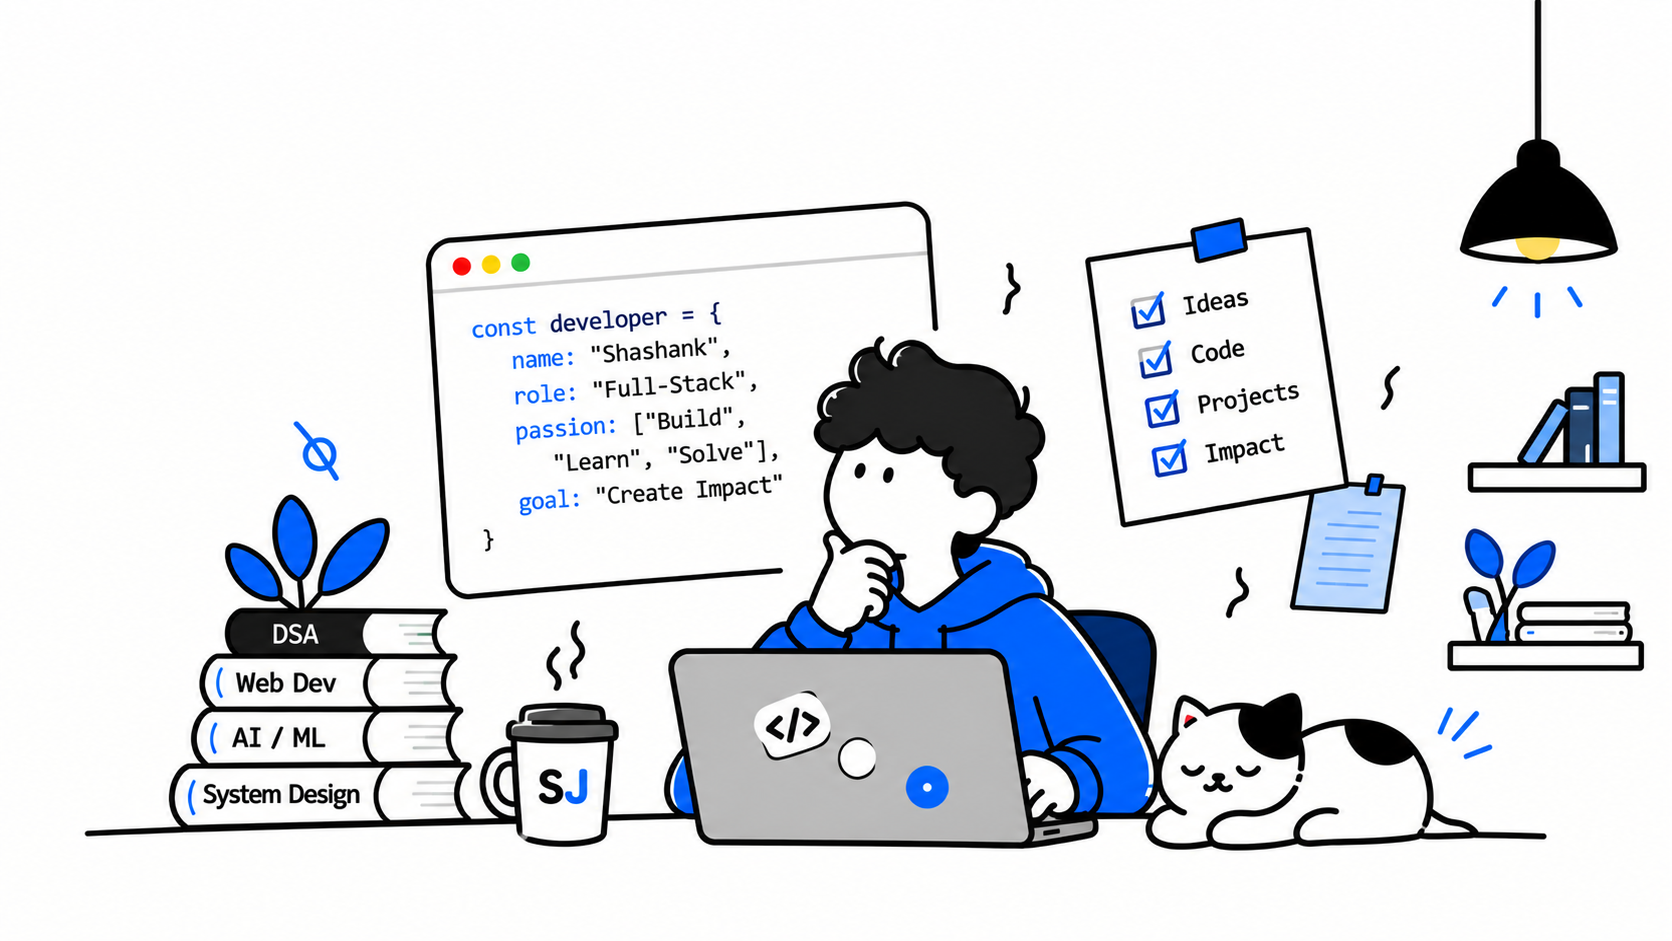
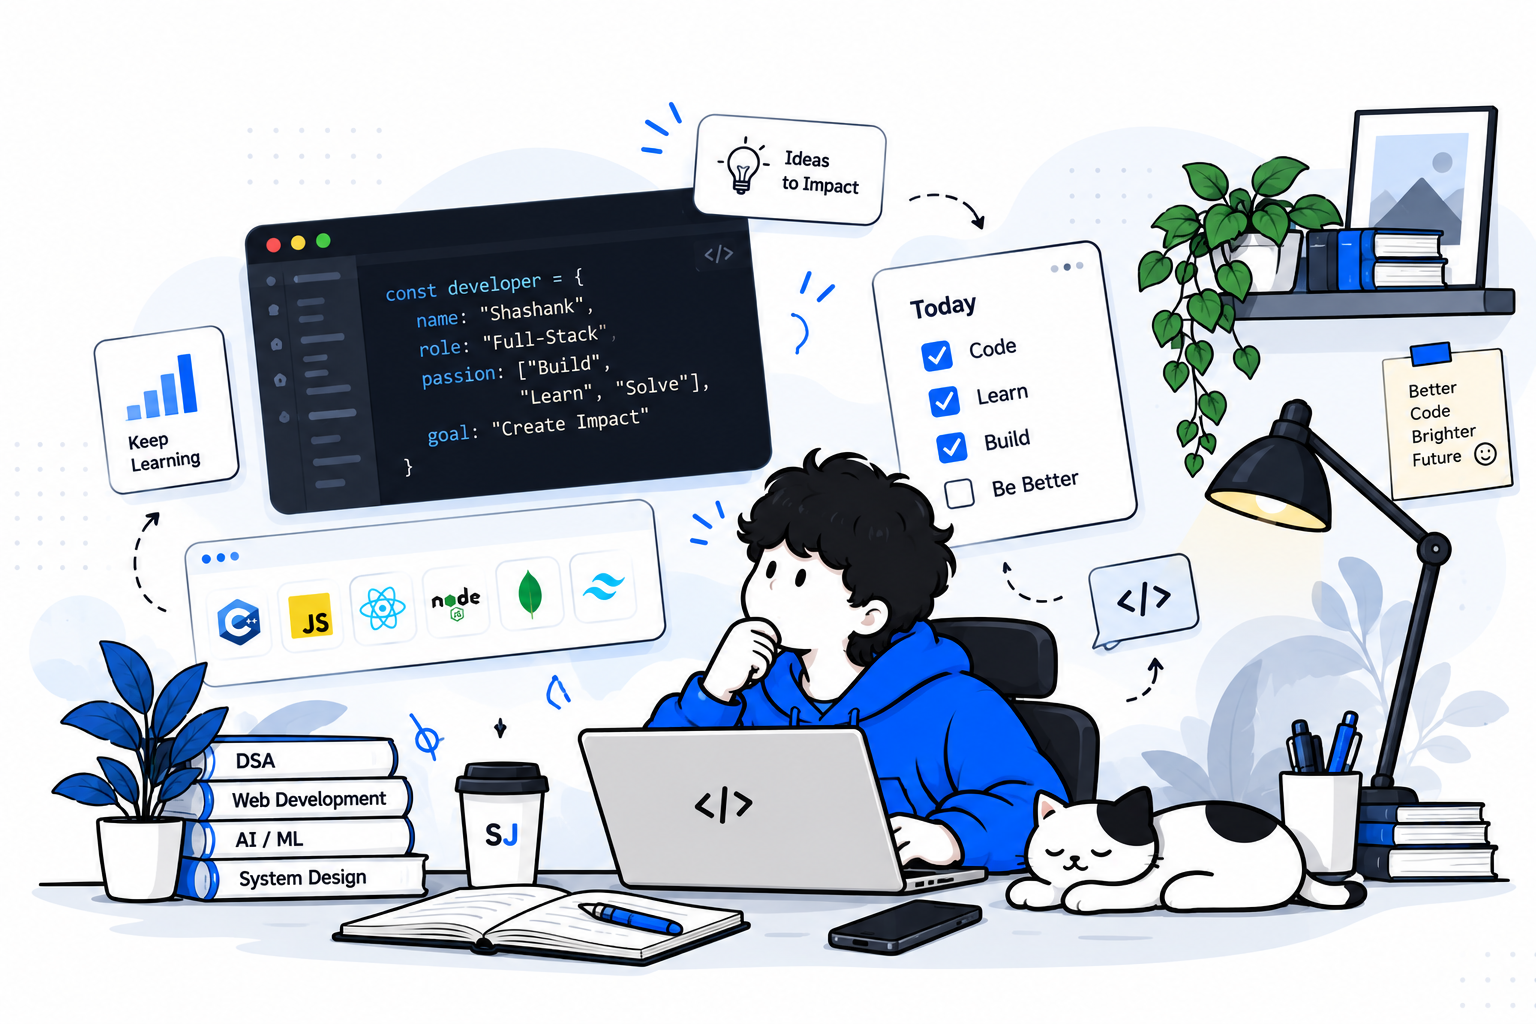
Update hero image and align margin in HeroSection

diff --git a/src/components/HeroSection.jsx b/src/components/HeroSection.jsx
@@ -30,7 +30,7 @@ export default function HeroSection() {
         <img
           src="/images/hero-developer.png" width="1672" height="941" fetchpriority="high"
           alt="Illustration of a developer in a blue hoodie thinking at a laptop, with a code window, a checklist, stacked books, a coffee cup and a sleeping cat"
-          className="fade block h-auto w-full select-none mix-blend-multiply lg:-mr-12 lg:w-[calc(100%+3rem)] xl:-mr-16 xl:w-[calc(100%+4rem)] lg:max-w-none"
+          className="fade block h-auto w-full select-none mix-blend-multiply"
         />
       </div>
       <div className="relative mx-auto w-full max-w-[1600px] px-5 sm:px-8 lg:px-12 xl:px-16">
